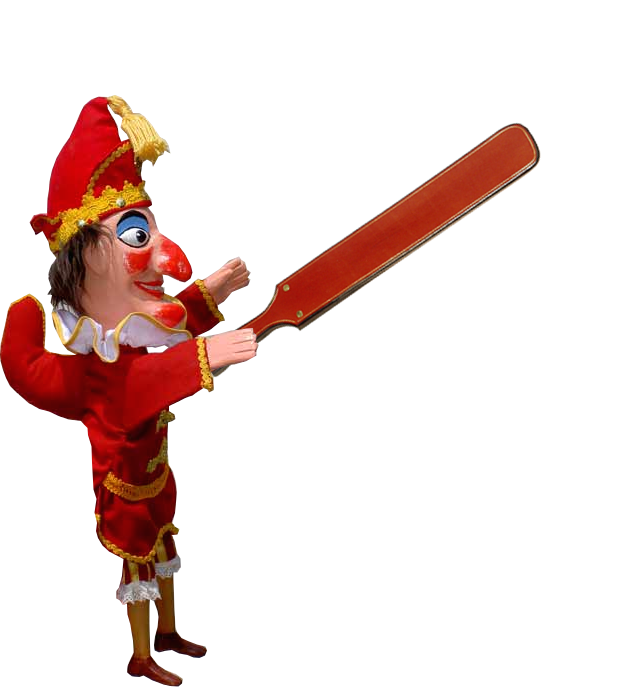
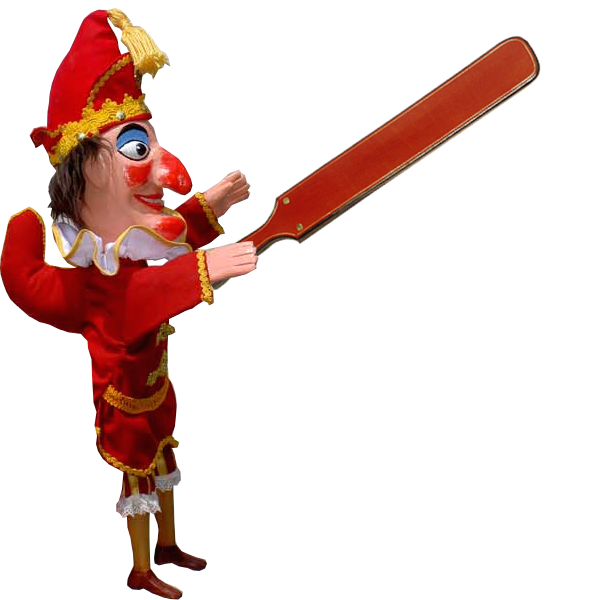
yes

Changed region(s): [[0.0, 0.0, 0.9, 1.0]]

diff --git a/src/java/punchjudy/Entity.java b/src/java/punchjudy/Entity.java
@@ -30,7 +30,17 @@ public class Entity {
 
 	public void moveTo(Coord trgt, float spd) {
 		//target = new Coord (trgt.getX() + (0.5f * sprite.width), trgt.getY());
+
+        if (trgt.getX() > location.getX() && horient == -1.0){
+                fliph();
+        }
+        else if (trgt.getX() < location.getX() && horient == 1.0){
+                fliph();
+        }
+
 		target = trgt;
+
+
 		/*
         if (target.getX() < location.getX() && horient == 1.0){
                 fliph();
@@ -38,12 +48,12 @@ public class Entity {
         else if (target.getX() > location.getX() && horient == -1.0){
                 fliph();
         }
+		*/
 
 		if (horient == 1.0f) {
                 //target.setX(target.getX() + (horient * (0.5f * sprite.width)));
-                //target.setX(target.getX() + sprite.width);
+                target.setX(target.getX() + (0.5f * sprite.width));
 		}
-		*/
 
 		speed = spd;
 	}
@@ -58,16 +68,16 @@ public class Entity {
 
 	void fliph() {
 		if (horient == 1.0f) {
-			//location.setX(location.getX() + (0.5f * sprite.width));
-			location.setX(location.getX() - sprite.width);
-			//target.setX(target.getX() - sprite.width);
+			location.setX(location.getX() - (0.5f * sprite.width));
+			//location.setX(location.getX() - sprite.width);
+			//target.setX(target.getX() - (0.5f * sprite.width));
 			horient = -1.0f;
 		}
 		else {
-			location.setX(location.getX() - sprite.width);
+			//location.setX(location.getX() - sprite.width);
 			//target.setX(target.getX() + sprite.width);
-			//location.setX(location.getX() - (0.5f * sprite.width));
-			//target.setX(target.getX() - (0.5f * sprite.width));
+			location.setX(location.getX() + (0.5f * sprite.width));
+			//target.setX(target.getX() + (0.5f * sprite.width));
 			horient = 1.0f;
 		}
 	}
@@ -84,6 +94,9 @@ public class Entity {
 			//location.setY(location.getY() + Math.signum(toTarget.getY()) * speed);
 			location.setX(location.getX() + toTarget.getX() * speed);
 			location.setY(location.getY() + toTarget.getY() * speed);
+		}
+		else {
+			location = target;
 		}
 
 	}
@@ -115,7 +128,7 @@ public class Entity {
 
 	void display() {
 		move();
-		//parent.imageMode(PConstants.CENTER);
+		parent.imageMode(PConstants.CENTER);
 		//zoom();
 		parent.pushMatrix();
 		parent.scale(horient * zoom.getX(), zoom.getY());

diff --git a/src/java/Env.java b/src/java/Env.java
@@ -53,7 +53,7 @@ public class Env extends Environment {
         	addPercept("punch", Literal.parseLiteral("anger(" + SettingsDialogue.settingsMap.get("punchanger")  +")"));
         }
         if (SettingsDialogue.settingsMap.get("judy") == 1) {
-        	addPercept("judy", Literal.parseLiteral("pos(stageLeft)"));
+        	addPercept("judy", Literal.parseLiteral("pos(stageRight)"));
         	addPercept("judy", Literal.parseLiteral("health(" + SettingsDialogue.settingsMap.get("judyhealth")  +")"));
         }
         if (SettingsDialogue.settingsMap.get("joey") == 1) {
@@ -67,28 +67,28 @@ public class Env extends Environment {
     public boolean executeAction(String agName, Structure action) {
         //logger.info("executing: "+action+", but not implemented!");
     	String functor = action.getFunctor();
-    	System.out.println("Agent name: " + agName);
+    	//System.out.println("Agent name: " + agName);
     	List<Term> values = action.getTerms();
     	String valuef = values.get(0).toString();
     	//System.out.println("Value: " + action.getTerm(0));
-    	System.out.println("Functor: " + action.getFunctor());
+    	//System.out.println("Functor: " + action.getFunctor());
     	
     	if (functor.equals("move")) {
-    		System.out.println(values.get(0).toString());
+    		//System.out.println(values.get(0).toString());
     		PuppetShow.addEvent(new MoveEvent(agName, 0, 10, valuef));
     	}
     	
     	if (functor.equals("say")) {
-    		System.out.println(values.get(0).toString());
+    		//System.out.println(values.get(0).toString());
     		PuppetShow.addEvent(new SpeakEvent(agName, 10, 20, valuef));
     		//PunchJudy.addEvent(new SpeakEvent(agName, 150, 20, "hello"));
     		//PunchJudy.addEvent(new SpeakEvent(agName, 150, 20, "Hey hey hey"));
     	}
     	
     	if (functor.equals("hit")) {
-    		System.out.println("hit: ");
+    		//System.out.println("hit: ");
     		if (valuef.equals("judy")) {
-    			System.out.println("judy");
+    			System.out.println("Punch should be hitting judy");
     			//PunchJudy.addEvent(new MoveEvent(agName, 10, 20, "stageRight"));
     			PuppetShow.addEvent(new SpeakEvent(agName, 10, 20, "laugh"));
     			PuppetShow.addEvent(new AnimEvent(agName, 10, 20, "hit"));

diff --git a/src/java/punchjudy/PuppetShow.java b/src/java/punchjudy/PuppetShow.java
@@ -20,13 +20,13 @@ public class PuppetShow extends PApplet {
 	final int screenHeight = 600;
 	final float scalef = 0.7f; // size of the actor
 
-	public static final Coord OFFSTAGELEFT = new Coord(200, 500);
-    public static final Coord OFFSTAGERIGHT = new Coord(1300, 500);
-    public static final Coord STAGELEFT = new Coord(500, 500);
-    public static final Coord STAGELEFTCENTRE = new Coord(600, 500);
-    public static final Coord STAGERIGHT = new Coord(1000, 500);
-    public static final Coord STAGERIGHTCENTRE = new Coord(900, 500);
-    public static final Coord STAGECENTRE = new Coord(750, 500);
+	public static final Coord OFFSTAGELEFT = new Coord(100, 500);
+    public static final Coord OFFSTAGERIGHT = new Coord(1400, 500);
+    public static final Coord STAGELEFT = new Coord(200, 500);
+    public static final Coord STAGELEFTCENTRE = new Coord(350, 500);
+    public static final Coord STAGERIGHT = new Coord(800, 500);
+    public static final Coord STAGERIGHTCENTRE = new Coord(650, 500);
+    public static final Coord STAGECENTRE = new Coord(500, 500);
 
 
 	Scene scene;
@@ -77,7 +77,7 @@ public class PuppetShow extends PApplet {
 		HashMap<String, Animation> punchAnims = new HashMap<String, Animation>();
 		punchAnims.put("rest", new Animation(punchRest));
 		punchAnims.put("front", new Animation(punchFront));
-		//punchAnims.put("hit", new Animation(punchHit));
+		punchAnims.put("hit", new Animation(punchHit));
 
 		// initialise the punch actor
 		punch = new Actor(this, OFFSTAGELEFT, new Coord(scalef, scalef), punchAnims, punchDialogue);
@@ -157,6 +157,7 @@ public class PuppetShow extends PApplet {
                 act.moveTo(new Coord(mouseX, mouseY), 6.0f);
                 System.out.println("X: " + act.target.getX() + "  Y: " + act.target.getY());
 		}
+		System.out.println(actors.get("punch").currentAnim);
 	}
 
 	public void draw() {
@@ -167,7 +168,7 @@ public class PuppetShow extends PApplet {
 		
 		// then the actors
 		for (Actor act : actors.values()) {
-			//act.update();
+			act.update();
 			act.display();
 			//System.out.println(act.location.getX());
 		}

diff --git a/src/java/punchjudy/Actor.java b/src/java/punchjudy/Actor.java
@@ -41,7 +41,7 @@ public class Actor extends Entity {
 	void setSpeech(String spch) {
 		if (dialogue != null) {
             speech = dialogue.get(spch);
-            System.out.println("Speech string: " + speech.subtitle);
+            //System.out.println("Speech string: " + speech.subtitle);
 		}
 	}
 
@@ -102,14 +102,13 @@ public class Actor extends Entity {
 	}
 
 	void update() {
-		/*
 		processMouse();
 		currentAnim.update();
 		sprite = currentAnim.frames[currentAnim.currentFrame];
-		*/
 	}
 
 	void display() {
+		parent.imageMode(PConstants.CENTER);
 		move();
 		if (dialogue != null) {
                 speak();

diff --git a/src/java/punchjudy/MoveEvent.java b/src/java/punchjudy/MoveEvent.java
@@ -27,14 +27,6 @@ public class MoveEvent extends Event {
 		float toTargetLength = (float) Math.sqrt((toTarget.getX() * toTarget.getX()) + (toTarget.getY() * toTarget.getY()));
 		object.moveTo(target, toTargetLength / dur);
 		
-		/*
-        if (target.getX() > object.location.getX() && object.horient == -1.0){
-                object.fliph();
-        }
-        else if (target.getX() < object.location.getX() && object.horient == 1.0){
-                object.fliph();
-        }
-        */
 	}
 
 }

diff --git a/src/java/punchjudy/Scene.java b/src/java/punchjudy/Scene.java
@@ -37,8 +37,8 @@ public class Scene {
 			for (Event ev : events) {
 				if (ev.startTime == 0) {
 					//System.out.println("actor: " + actors.get(ev.getObjectID()).location.getX());
-					System.out.println("Trigger");
-					System.out.println(ev.getClass().toString());
+					//System.out.println("Trigger");
+					//System.out.println(ev.getClass().toString());
 					ev.trigger(actors.get(ev.getObjectID()));
 					ev.startTime -= 1;
 				}

diff --git a/src/java/punchjudy/SpeakEvent.java b/src/java/punchjudy/SpeakEvent.java
@@ -7,7 +7,7 @@ public class SpeakEvent extends Event {
 		super(act, sTime, d);
 		actor = act;
 		dialogue = dial;
-		System.out.println("SpeakEvent constructor: " + sTime);
+		//System.out.println("SpeakEvent constructor: " + sTime);
 	}
 
 	protected void trigger(Entity obj) {
